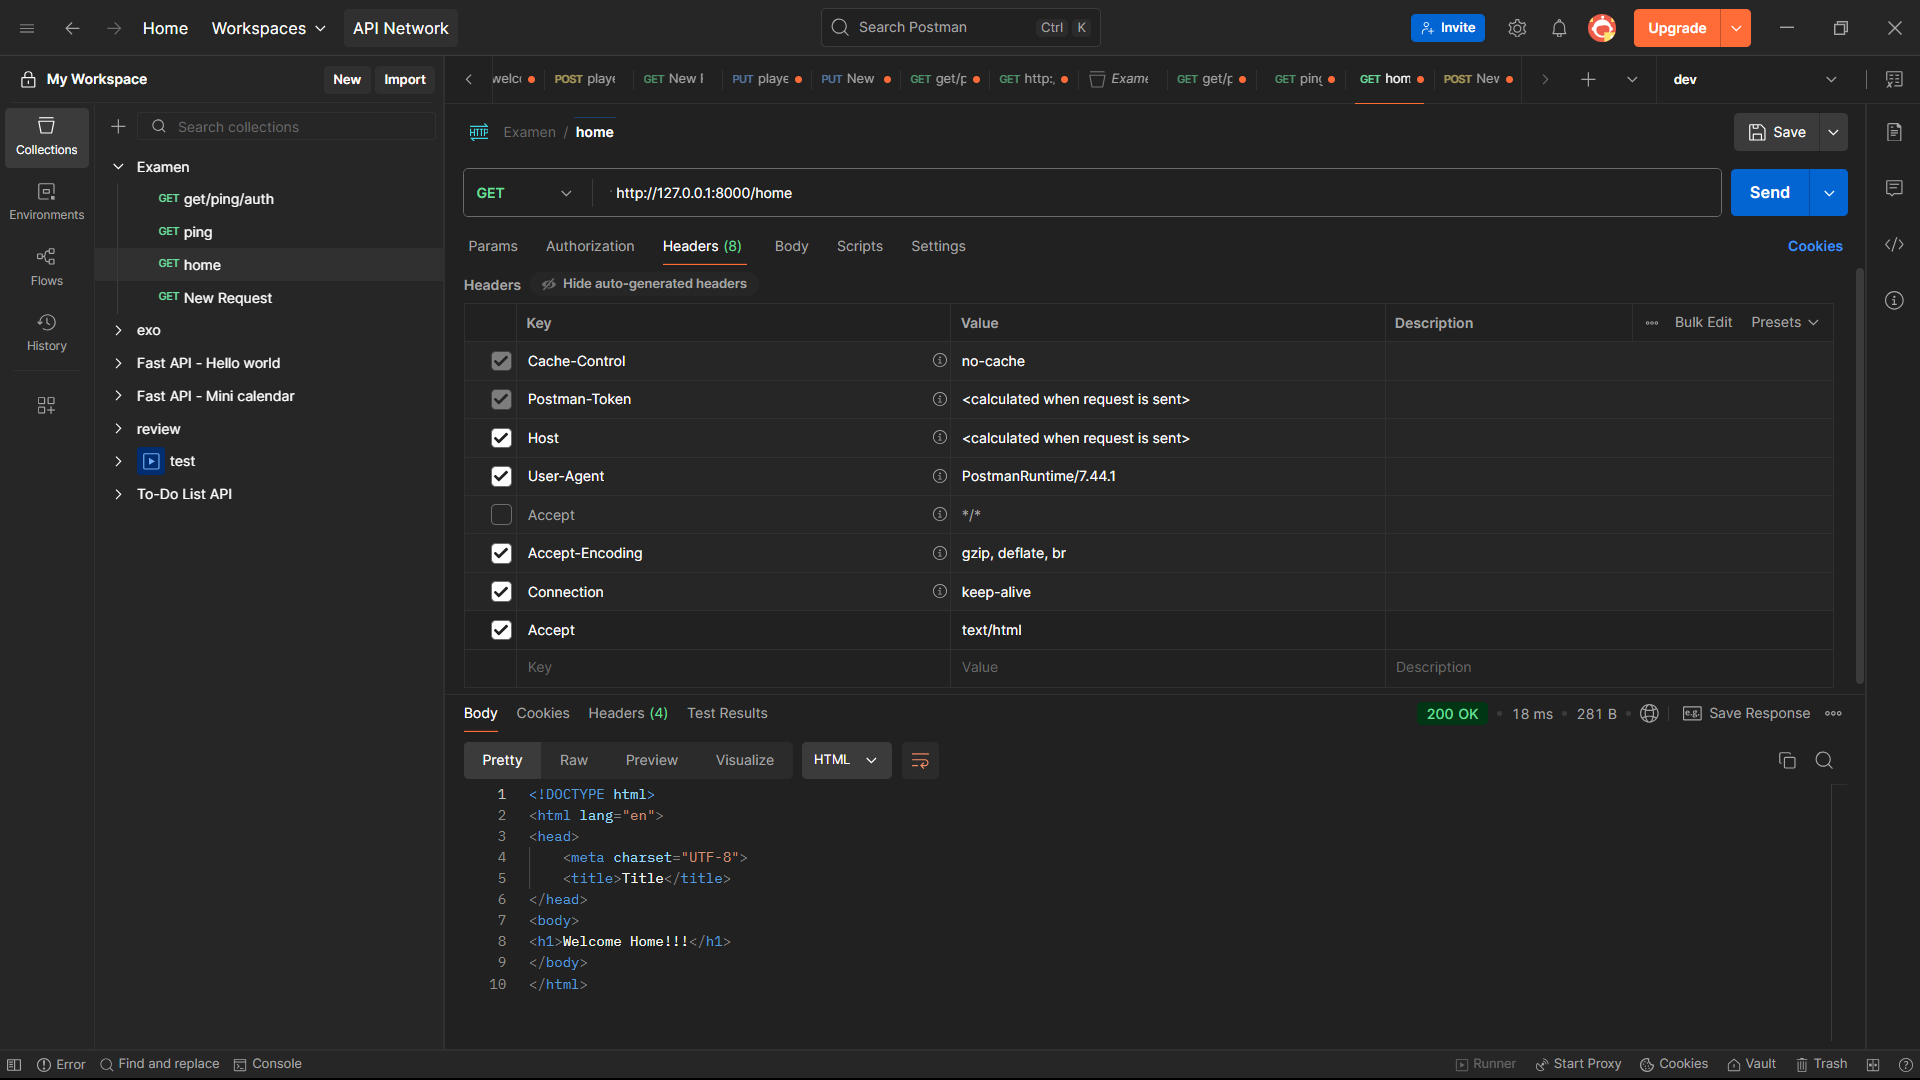
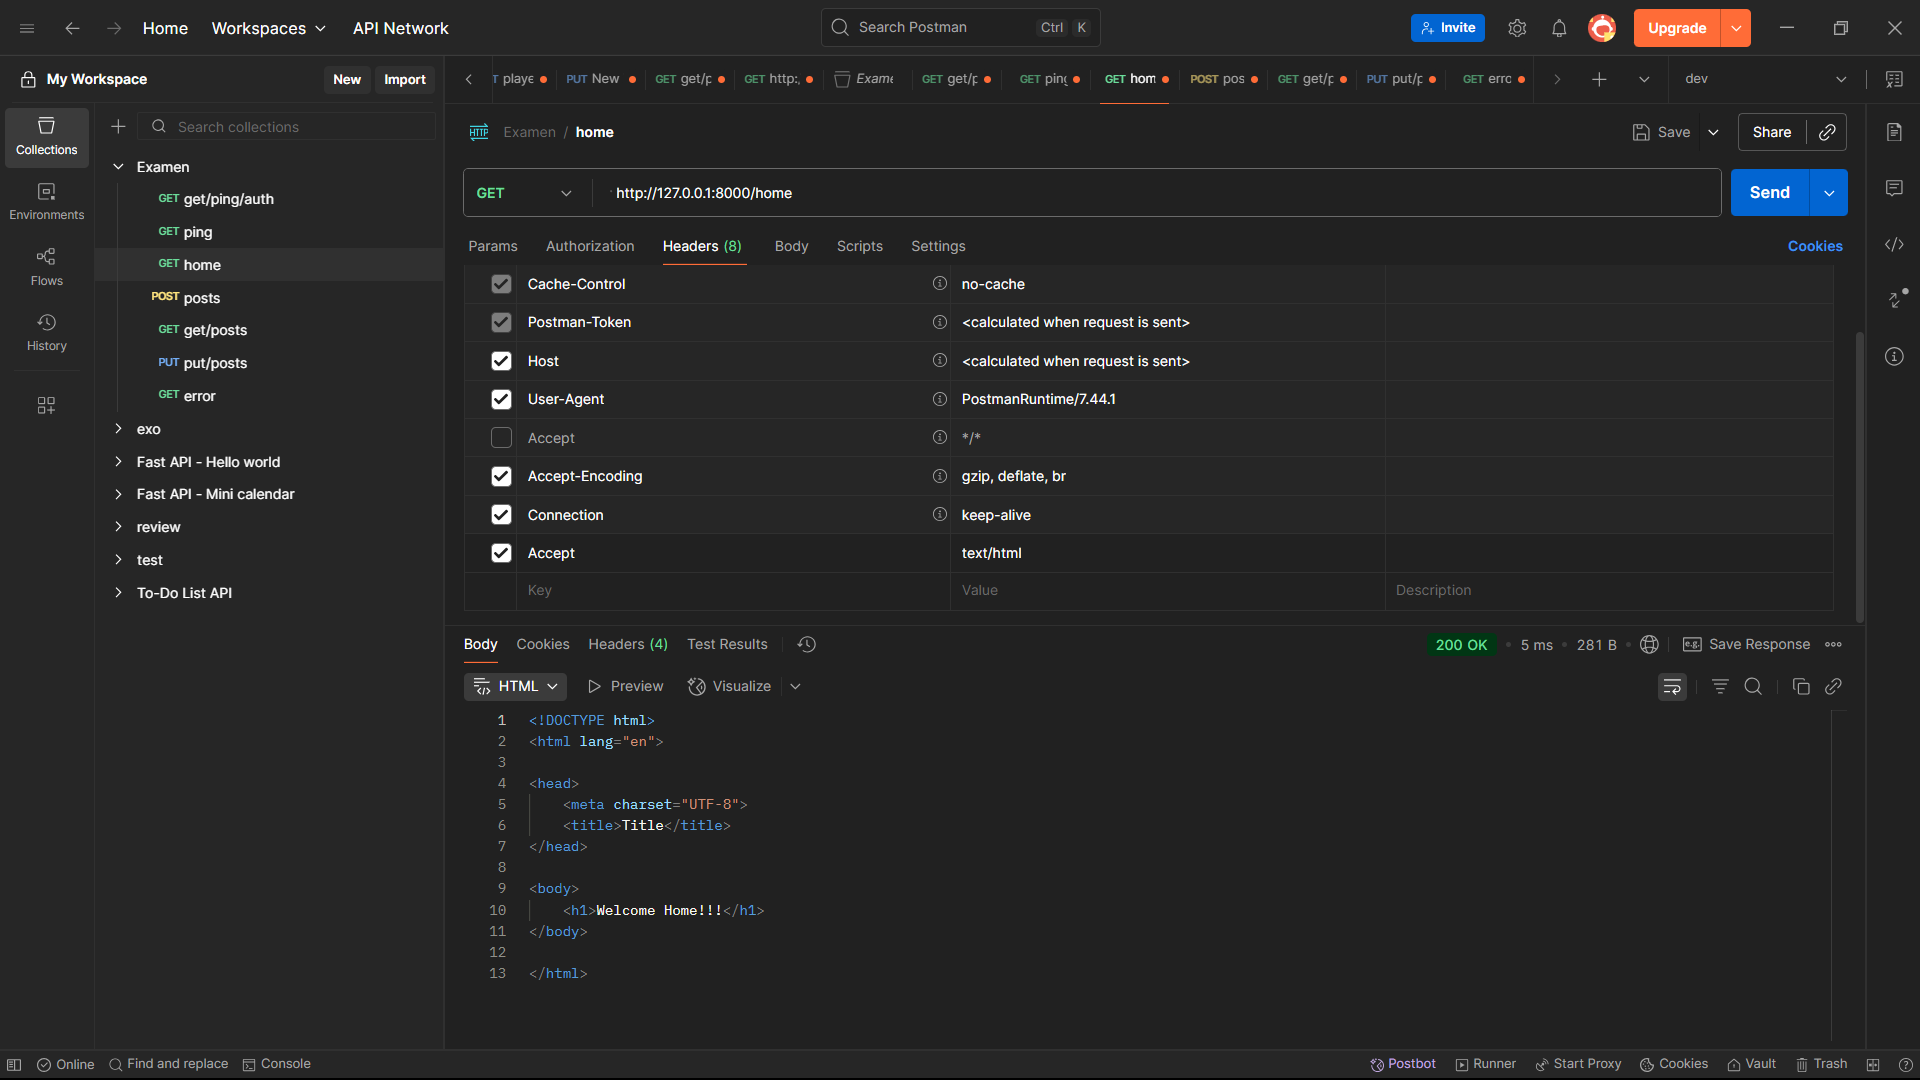
commit 1.2

diff --git a/main.py b/main.py
@@ -20,11 +20,6 @@ async def home():
         html_content=file.read()
         return HTMLResponse(content=html_content)
 
-@app.get("/{full_path:path}")
-def error():
-   with open("404.html", "r",encoding="utf-8") as file:
-       html_content=file.read()
-       return HTMLResponse(content=html_content)
 
 
 class Books(BaseModel):
@@ -34,16 +29,16 @@ class Books(BaseModel):
     creation_date:str
 
 book_db :List[Books] =[]
-@app.post("/posts")
+@app.post("/posts",status_code=201,response_model=List[Books])
 async def posts(new_book:List[Books]):
     book_db.extend(new_book)
     return book_db
 
-@app.get("/posts")
+@app.get("/posts",response_model=List[Books],status_code=200)
 async def get_posts():
     return book_db
 
-@app.put("/posts")
+@app.put("/posts",status_code=202,response_model=List[Books])
 async def update_posts(book:Books):
     for i,existing_book in enumerate(book_db):
         if book.title == existing_book.title:
@@ -60,3 +55,9 @@ async def get_auth(request:Request):
     if auth != "123456":
         raise HTTPException(status_code=401,detail="Authorization header invalid")
     return Response("pong")
+
+@app.get("/{full_path:path}",status_code=404)
+def error():
+    with open("404.html", "r",encoding="utf-8") as file:
+        html_content=file.read()
+        return HTMLResponse(content=html_content)
